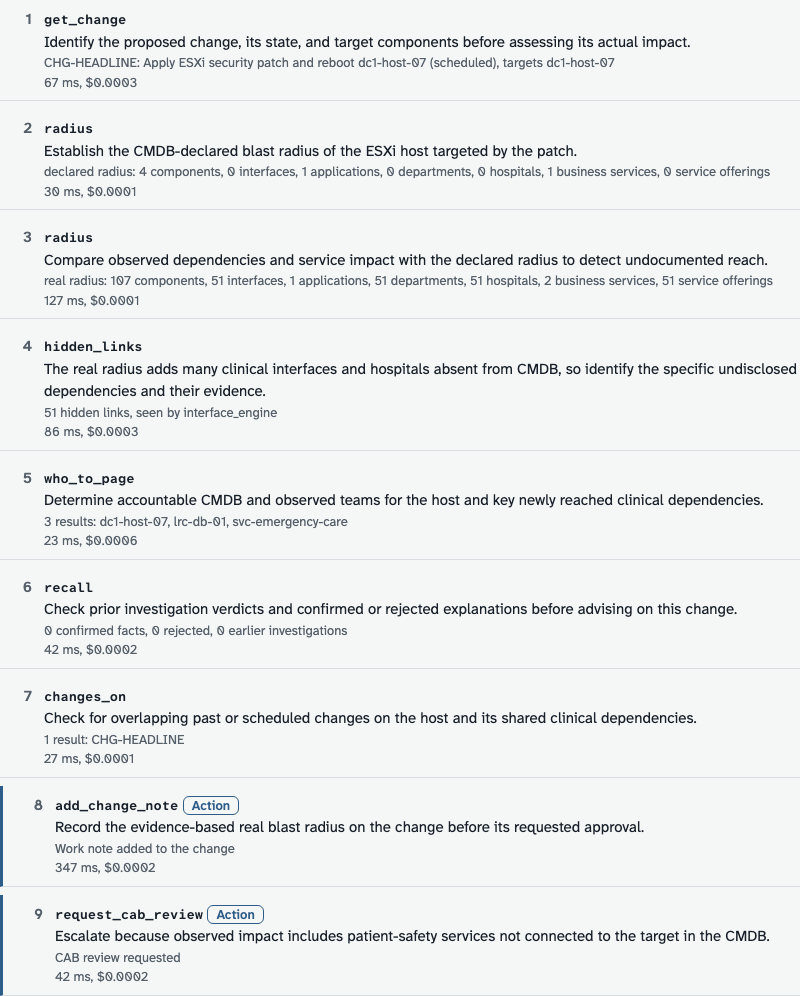
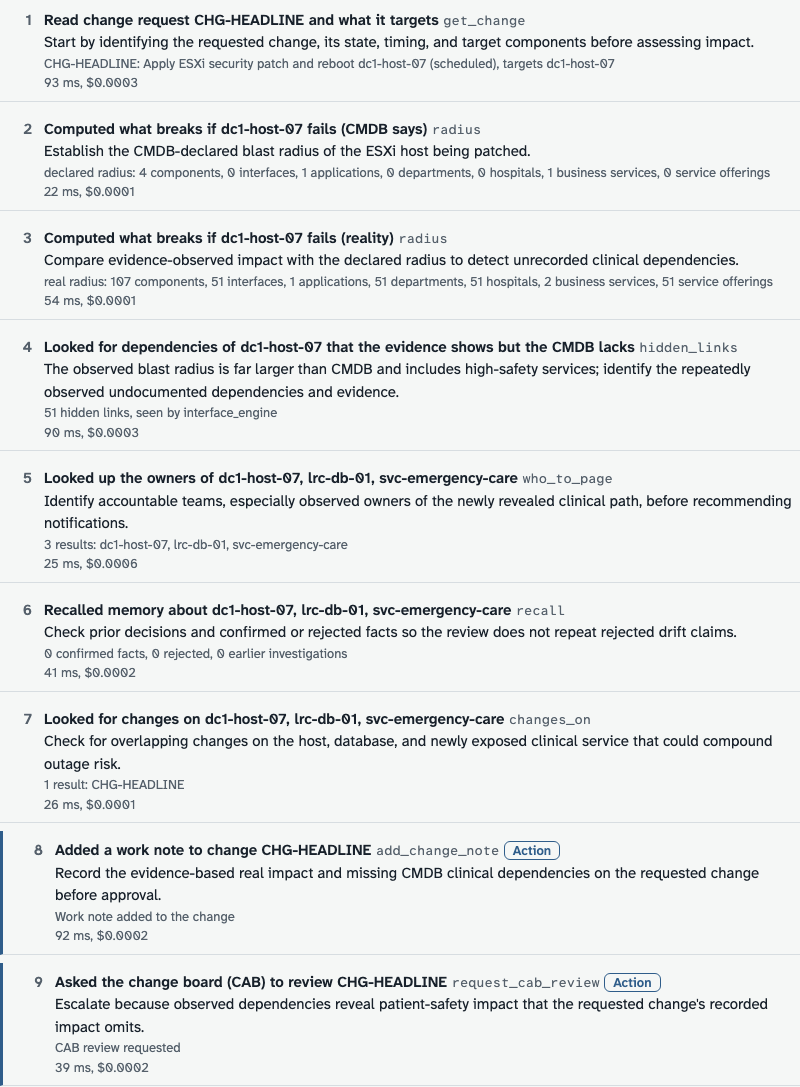
UI polish: header buttons on the right, hero beside the headline chain, memory shown only in its block (hidden until there is memory or a run), verdict labels by kind and recommended actions as a list, tour card avoids the spotlight and the verdict, Overview trace in the new step format; plain-langu

Changed region(s): [[0.0, 0.0, 1.0, 1.0], [0.0, 0.8715, 0.0312, 0.9026]]

diff --git a/ui/index.html b/ui/index.html
@@ -30,11 +30,13 @@
     <button role="tab" id="tab-btn-chat" aria-controls="tab-chat" data-tab="chat">Chat</button>
     <button role="tab" id="tab-btn-scale" aria-controls="tab-scale" data-tab="scale">Scale</button>
   </nav>
+  <div class="head-actions">
+    <button class="ghost" type="button" id="reset" hidden title="Undo every approval and restore the demo data">Reset demo</button>
+    <button class="ghost" type="button" id="theme" aria-pressed="false">Dark theme</button>
+  </div>
   <div class="status">
     <span id="llm-status" class="llm-status">AI status loading</span>
     <span id="agent-spend" class="llm-status" hidden></span>
-    <button class="ghost" type="button" id="reset" hidden title="Undo every approval and restore the demo data">Reset demo</button>
-    <button class="ghost" type="button" id="theme" aria-pressed="false">Dark theme</button>
   </div>
 </header>
 
@@ -43,6 +45,7 @@
 <main id="main" tabindex="-1">
   <!-- Overview (SITE_SPEC 1): static, renders before any API call -->
   <section id="tab-overview" role="tabpanel" aria-labelledby="tab-btn-overview" class="screen overview">
+    <div class="hero-wrap">
     <div class="hero">
       <h1>Your <button type="button" class="term" data-term="cmdb">CMDB</button> says this patch is safe. Your hospital network disagrees.</h1>
       <p class="lede">An AI agent that checks every change against what systems actually do, finds what the CMDB is
@@ -53,50 +56,8 @@
       </div>
       <p class="label-muted">All data is fictional: Northwind Health is an invented health system sized like a large US one.</p>
     </div>
-
-    <section class="ov" aria-labelledby="ov-problem">
-      <h2 id="ov-problem">The problem</h2>
-      <p>Hospitals keep a <button type="button" class="term" data-term="cmdb">CMDB</button>, a database of every system and what depends on what. Change approvers
-        trust it to answer “what breaks if we patch this?”. But it <button type="button" class="term" data-term="drift">drifts</button>: new connections get added
-        and never recorded. When the record is wrong, a “low-risk” change can take down systems nobody warned.</p>
-    </section>
-
-    <section class="ov" aria-labelledby="ov-how">
-      <h2 id="ov-how">How it works</h2>
-      <ol class="flow4">
-        <li><h3>The record</h3><p>The CMDB lists systems and the dependencies people <button type="button" class="term" data-term="declared-observed">declared</button>.</p></li>
-        <li><h3>The evidence</h3><p>Eleven <button type="button" class="term" data-term="discovery-source">discovery sources</button> (scanners, traffic metrics, the
-          interface engine, backup and access logs) show what actually happens.</p></li>
-        <li><h3>The gap</h3><p>Both go into one FalkorDB graph on the same components. Wherever the evidence and the
-          record disagree, that is drift.</p></li>
-        <li><h3>The agent</h3><p>The Change Guardian investigates, decides and acts: it picks graph tools over MCP,
-          shows every step and why, warns owners and flags risky changes, proposes fixes a person approves, and
-          remembers what people confirmed in its own memory graph.</p></li>
-      </ol>
-    </section>
-
-    <section class="ov" aria-labelledby="ov-agent">
-      <h2 id="ov-agent">The agent investigates, decides and acts</h2>
-      <p>Ask the Change Guardian (<button type="button" class="term" data-term="agent">agent</button>) to review a change or chase a symptom. It chooses graph tools one
-        at a time through <button type="button" class="term" data-term="mcp">MCP</button> (the same read-only tools any MCP client can use at <span class="id">/mcp</span>), says why at each step,
-        then gives a checked verdict and acts: a work note on the change, a CAB review, alerts to the right owners, a
-        proposed CMDB fix that waits for a person. It remembers what people approved or rejected in its own FalkorDB
-        <button type="button" class="term" data-term="memory-graph">memory graph</button> and recalls it next time.</p>
-      <ul class="proof">
-        <li>Tested on 9 scenarios (change reviews and incidents), 4 of them held out during development: 7 of 9
-          correct, about $0.002 per investigation.
-          <a href="https://github.com/sudarshan032/northwind-drift-agent/blob/master/docs/records/AGENT_EVAL.md">Evaluation</a></li>
-        <li>Connect your own MCP client: <span class="id">https://northwind-drift-agent.vercel.app/mcp</span>
-          (<a href="https://github.com/sudarshan032/northwind-drift-agent#connect-an-mcp-client">how</a>)</li>
-      </ul>
-      <figure class="trace-fig">
-        <img src="/static/img/trace.png" alt="Recorded agent run for CHG-HEADLINE: get_change, declared and real radius (4 versus 107 components), 51 hidden links seen by the interface engine, who to page, recall, changes on the host, then two actions: a work note and a CAB review request." loading="lazy">
-        <figcaption class="label-muted">A recorded run of the agent on CHG-HEADLINE: nine steps, two actions, $0.0032.</figcaption>
-      </figure>
-    </section>
-
-    <section class="ov headline" aria-labelledby="ov-example">
-      <h2 id="ov-example">The headline example</h2>
+    <section class="hero-example" aria-labelledby="ov-example">
+      <h2 id="ov-example" class="label-muted">The headline example</h2>
       <figure class="chain-fig">
         <svg class="chain" viewBox="0 0 480 428" role="img" aria-labelledby="chain-title chain-desc">
           <title id="chain-title">How patching dc1-host-07 reaches Emergency care</title>
@@ -124,6 +85,48 @@
           <a class="ghost button" href="#change=CHG-HEADLINE">See it in change review</a></figcaption>
       </figure>
     </section>
+    </div>
+
+    <section class="ov" aria-labelledby="ov-problem">
+      <h2 id="ov-problem">The problem</h2>
+      <p>Hospitals keep a <button type="button" class="term" data-term="cmdb">CMDB</button>, a database of every system and what depends on what. Change approvers
+        trust it to answer “what breaks if we patch this?”. But it <button type="button" class="term" data-term="drift">drifts</button>: new connections get added
+        and never recorded. When the record is wrong, a “low-risk” change can take down systems nobody warned.</p>
+    </section>
+
+    <section class="ov" aria-labelledby="ov-how">
+      <h2 id="ov-how">How it works</h2>
+      <ol class="flow4">
+        <li><h3>The record</h3><p>The CMDB lists systems and the dependencies people <button type="button" class="term" data-term="declared-observed">declared</button>.</p></li>
+        <li><h3>The evidence</h3><p>Eleven <button type="button" class="term" data-term="discovery-source">discovery sources</button> (scanners, traffic metrics, the
+          interface engine, backup and access logs) show what actually happens.</p></li>
+        <li><h3>The gap</h3><p>Both go into one FalkorDB graph on the same components. Wherever the evidence and the
+          record disagree, that is drift.</p></li>
+        <li><h3>The agent</h3><p>The Change Guardian investigates with graph tools over MCP, acts, and remembers what
+          people confirm.</p></li>
+      </ol>
+    </section>
+
+    <section class="ov" aria-labelledby="ov-agent">
+      <h2 id="ov-agent">The agent investigates, decides and acts</h2>
+      <p>Ask the Change Guardian (<button type="button" class="term" data-term="agent">agent</button>) to review a change or chase a symptom. It chooses graph tools one
+        at a time through <button type="button" class="term" data-term="mcp">MCP</button> (the same read-only tools any MCP client can use at <span class="id">/mcp</span>), says why at each step,
+        then gives a checked verdict and acts: a work note on the change, a CAB review, alerts to the right owners, a
+        proposed CMDB fix that waits for a person. It remembers what people approved or rejected in its own FalkorDB
+        <button type="button" class="term" data-term="memory-graph">memory graph</button> and recalls it next time.</p>
+      <ul class="proof">
+        <li>Tested on 9 scenarios (change reviews and incidents), 4 of them held out during development: 7 of 9
+          correct, about $0.002 per investigation.
+          <a href="https://github.com/sudarshan032/northwind-drift-agent/blob/master/docs/records/AGENT_EVAL.md">Evaluation</a></li>
+        <li>Connect your own MCP client: <span class="id">https://northwind-drift-agent.vercel.app/mcp</span>
+          (<a href="https://github.com/sudarshan032/northwind-drift-agent#connect-an-mcp-client">how</a>)</li>
+      </ul>
+      <figure class="trace-fig">
+        <img src="/static/img/trace.png" alt="Recorded agent run for CHG-HEADLINE, each step in plain words with its tool: read the change, CMDB and real impact (4 versus 107 components), 51 hidden links seen by the interface engine, owners, memory, changes on the host, then two actions: a work note and a CAB review request." loading="lazy">
+        <figcaption class="label-muted">A recorded run of the agent on CHG-HEADLINE: nine steps, two actions, $0.0032.</figcaption>
+      </figure>
+    </section>
+
 
     <section class="ov" aria-labelledby="ov-why">
       <h2 id="ov-why">Why a graph</h2>
@@ -206,7 +209,7 @@
           decides, acts and remembers. Notes, CAB flags and alerts are recorded at once; CMDB fixes still wait for a
           person.</p>
         <div id="agent-out" class="agent-out" aria-live="polite"></div>
-        <div class="remembers" id="agent-memory" aria-labelledby="mem-head">
+        <div class="remembers" id="agent-memory" aria-labelledby="mem-head" hidden>
           <h3 id="mem-head">What the agent remembers</h3>
           <div id="mem-facts"></div>
           <h4>Earlier investigations</h4>

diff --git a/ui/app.js b/ui/app.js
@@ -1115,7 +1115,7 @@ function stepHTML(e) {
     ${e.why ? `<p class="why">${esc(e.why)}</p>` : ""}<p class="res">${esc(friendly(e.summary))}</p>
     <p class="meta">${esc(e.ms ?? 0)} ms${e.cost ? `, ${usd(e.cost)}` : ""}</p></div></li>`;
 }
-function verdictHTML(e) {
+function verdictHTML(e, kind = "change") {
   const v = e.verdict || {};
   const ci = (n) => n ? linkCI(n) : "";
   const links = v.hidden_links || [];
@@ -1123,26 +1123,24 @@ function verdictHTML(e) {
     <h3>Verdict ${riskLabel(v.risk)}</h3>
     ${e.valid ? "" : `<p class="notice">${esc(e.rejected ? `The agent's verdict was set aside because ${e.rejected}. This is the rule-based review instead.`
       : e.stopped ? `The agent stopped early (${e.stopped}). This is the rule-based review instead.` : "Rule-based review.")}</p>`}
-    ${v.root_cause ? `<p>Likely cause: ${ci(v.root_cause)}</p>` : ""}
+    ${v.root_cause ? `<p>${kind === "incident" ? "Likely cause" : "Risk centres on"}: ${ci(v.root_cause)}</p>` : ""}
     ${(v.reasons || []).length ? `<ul class="prose">${v.reasons.map((r) => `<li>${inline(friendly(r))}</li>`).join("")}</ul>` : ""}
     ${links.length ? `<p class="used">Hidden links (${links.length}): ${links.slice(0, 4).map((l) => `<span class="id">${esc(l)}</span>`).join(", ")}${links.length > 4 ? " and more" : ""}</p>` : ""}
     ${(v.warn || []).length ? `<table class="data plain"><thead><tr><th scope="col">Warn</th><th scope="col">About</th><th scope="col">Why</th></tr></thead><tbody>${
       v.warn.map((w) => `<tr><td data-label="Warn">${esc(w.team)}</td><td data-label="About">${ci(w.component)}</td><td data-label="Why">${esc(w.why)}</td></tr>`).join("")}</tbody></table>` : ""}
     ${(e.actions_taken || []).length ? `<p class="used">Actions taken: ${e.actions_taken.map((a) => `${esc(a.summary)}`).join("; ")}</p>` : ""}
-    ${(v.actions || []).length ? `<p class="used">Recommended: ${v.actions.map(esc).join("; ")}</p>` : ""}</div>`;
+    ${(v.actions || []).length ? `<h4>Recommended</h4><ul class="verdict-actions">${v.actions.map((a) => `<li>${esc(a)}</li>`).join("")}</ul>` : ""}</div>`;
 }
 function renderEvent(box, e) {
   const list = () => box.querySelector("ol.trace") || box.appendChild(Object.assign(document.createElement("ol"), { className: "trace" }));
   if (e.type === "start") {
+    box.dataset.kind = e.kind || "change";
     box.insertAdjacentHTML("beforeend", `<p class="run-head">${e.recorded ? `<span class="flag-rec">Recorded run</span> ` : "Live run, "}model <span class="id">${esc(e.model)}</span>, up to ${esc(e.max_steps)} steps</p>`);
   } else if (e.type === "notice") box.insertAdjacentHTML("beforeend", `<p class="notice">${esc(e.text)}</p>`);
-  else if (e.type === "memory") {
-    const facts = [...(e.confirmed || []).map((f) => `Confirmed: ${f.statement}`), ...(e.rejected || []).map((f) => `Rejected: ${f.statement}`)];
-    box.insertAdjacentHTML("beforeend", `<div class="memory"><h3>Memory</h3>${facts.length ? `<ul>${facts.slice(0, 5).map((f) => `<li>${esc(f)}</li>`).join("")}</ul>` : ""}
-      ${(e.investigations || []).length ? `<p class="label-muted">${plural(e.investigations.length, "earlier investigation")} of these components.</p>` : ""}</div>`);
-  } else if (e.type === "note") list().insertAdjacentHTML("beforeend", `<li class="note"><span class="n">i</span><p>${esc(cap(e.text))}</p></li>`);
+  else if (e.type === "memory") { if (box.id === "agent-out") loadMemory(true); }  // shown in "What the agent remembers"
+  else if (e.type === "note") list().insertAdjacentHTML("beforeend", `<li class="note"><span class="n">i</span><p>${esc(cap(e.text))}</p></li>`);
   else if (e.type === "step") list().insertAdjacentHTML("beforeend", stepHTML(e));
-  else if (e.type === "verdict") box.insertAdjacentHTML("beforeend", verdictHTML(e));
+  else if (e.type === "verdict") box.insertAdjacentHTML("beforeend", verdictHTML(e, box.dataset.kind));
   else if (e.type === "done") box.insertAdjacentHTML("beforeend", `<p class="label-muted">${plural(e.steps, "step")}, ${usd(e.cost)}, ${((e.ms || 0) / 1000).toFixed(1)} s.</p>`);
 }
 async function runAgent(kind, trigger, box, replay = false) {
@@ -1171,32 +1169,37 @@ async function runAgent(kind, trigger, box, replay = false) {
     if (done) break;
   }
   await dataChanged();
+  memShown = memShown || box.id === "agent-out";
   loadPast();
   return events;
 }
-async function loadMemory() {
+let memShown = false;
+async function loadMemory(show = false) {
   const box = $("#mem-facts");
   if (!box) return;
+  memShown = memShown || show;
   const names = current?.kind === "change" && review?.graph ? review.graph.nodes.map((n) => n.id).slice(0, 300) : [];
-  if (!names.length) { box.innerHTML = `<p class="empty">Open a change to see what the agent remembers about it.</p>`; return; }
+  if (!names.length) { box.innerHTML = `<p class="empty">Open a change to see what the agent remembers about it.</p>`; $("#agent-memory").hidden = !memShown; return; }
   let m;
   try { m = await api(`/agent/memory?components=${enc(names.join(","))}`); } catch (e) { return; }
   const facts = [...m.confirmed.map((f) => ["Confirmed", f]), ...m.rejected.map((f) => ["Rejected", f])];
+  const past = $$("#agent-past [data-inv]").length;
+  $("#agent-memory").hidden = !(memShown || facts.length || past);
   box.innerHTML = facts.length ? `<ul class="facts">${facts.slice(0, 6).map(([k, f]) => `<li><span class="flag-${k === "Confirmed" ? "ok" : "no"}">${k}</span> ${esc(f.statement)}</li>`).join("")}</ul>`
     : `<p class="empty">Nothing yet about this change's components. Approving or rejecting a finding teaches the agent; it recalls that in later reviews.</p>`;
 }
 async function loadPast() {
-  loadMemory();
   let rows = [];
   try { rows = await api("/agent/investigations?limit=10"); } catch (e) { return; }
   $("#agent-past").innerHTML = rows.length ? rows.map((x) => `<li><button type="button" class="link" data-inv="${esc(x.id)}">${esc(x.trigger)}</button>
     ${riskLabel(x.verdict?.risk, true)} <span class="label-muted">${esc(when(x.time))}${x.recorded ? ", recorded" : ""}</span></li>`).join("")
     : `<li class="empty">No live investigations yet (recorded runs are not stored). Ask the agent to review a change.</li>`;
+  loadMemory();
   $$("#agent-past [data-inv]").forEach((b) => { b.onclick = async () => {
     const inv = await api(`/agent/investigations/${enc(b.dataset.inv)}`);
     const box = $("#agent-out");
     box.innerHTML = "";
-    renderEvent(box, { type: "start", model: inv.model, max_steps: inv.steps.length + 1, recorded: true });
+    renderEvent(box, { type: "start", kind: inv.kind, model: inv.model, max_steps: inv.steps.length + 1, recorded: true });
     inv.steps.forEach((st) => renderEvent(box, { type: "step", ...st }));
     renderEvent(box, { type: "verdict", verdict: inv.verdict, valid: true, actions_taken: inv.steps.filter((st) => st.action) });
     box.scrollIntoView({ block: "nearest" });
@@ -1320,9 +1323,25 @@ function placeTour() {
   Object.assign(spot.style, { left: `${r.left - pad}px`, top: `${top}px`, width: `${r.width + 2 * pad}px`, height: `${Math.max(0, bottom - top)}px` });
   spot.hidden = false;
   const h = card.offsetHeight, w = card.offsetWidth;
-  const y = bottom + gap + h < innerHeight ? bottom + gap : top - gap - h > 0 ? top - gap - h : innerHeight - h - gap;
+  // never cover the spotlighted element or the verdict sentence
+  const avoid = [{ left: r.left - pad, right: r.right + pad, top, bottom }];
+  const vs = $("#verdict");
+  if (vs && vs.offsetParent && !$("#tab-change").hidden) avoid.push(vs.getBoundingClientRect());
+  const overlap = (a, b) => Math.max(0, Math.min(a.right, b.right) - Math.max(a.left, b.left))
+    * Math.max(0, Math.min(a.bottom, b.bottom) - Math.max(a.top, b.top));
+  const cost = (x, y) => avoid.reduce((sum, b) => sum + overlap({ left: x, right: x + w, top: y, bottom: y + h }, b), 0);
+  if (matchMedia("(max-width: 960px)").matches) {  // the card is pinned to the bottom (CSS); flip it to the top if needed
+    const atBottom = cost(gap, innerHeight - h - gap), atTop = cost(gap, gap);
+    card.classList.toggle("at-top", atTop < atBottom);
+    return;
+  }
+  const cx = (x) => Math.max(gap, Math.min(x, innerWidth - w - gap)), cy = (y) => Math.max(gap, Math.min(y, innerHeight - h - gap));
+  const options = [[cx(r.left), bottom + gap], [cx(r.left), top - gap - h], [r.right + gap, cy(top)], [r.left - gap - w, cy(top)],
+    [innerWidth - w - gap, innerHeight - h - gap], [innerWidth - w - gap, gap], [gap, innerHeight - h - gap], [gap, gap]]
+    .filter(([x, y]) => x >= gap && y >= gap && x + w <= innerWidth - gap + 1 && y + h <= innerHeight - gap + 1);
+  const [x, y] = options.reduce((best, o) => (cost(...o) < cost(...best) ? o : best), options[0] || [gap, gap]);
   card.style.top = `${y}px`;
-  card.style.left = `${Math.max(gap, Math.min(r.left, innerWidth - w - gap))}px`;
+  card.style.left = `${x}px`;
 }
 function endTour() {
   tourOn = false;

diff --git a/ui/app.css b/ui/app.css
@@ -70,7 +70,8 @@ a { color: var(--declared); }
 }
 .tabs [role="tab"][aria-selected="true"] { color: var(--ink); border-bottom-color: var(--declared); }
 .tabs [role="tab"]:hover { color: var(--ink); }
-.status { display: flex; align-items: center; gap: var(--s-16); font-size: var(--t-13); color: var(--ink-muted); }
+.head-actions { display: flex; align-items: center; gap: var(--s-12); margin-left: auto; }
+.status { display: flex; align-items: center; gap: var(--s-16); font-size: var(--t-13); color: var(--ink-muted); flex-basis: 100%; order: 4; }
 .llm-status .id { color: var(--ink); }
 
 .banner {
@@ -293,7 +294,11 @@ pre.raw { margin: 0; font-family: var(--font-id); font-size: var(--t-13); backgr
 /* overview (SITE_SPEC 1) */
 .overview { row-gap: var(--s-48); }
 .overview > * { grid-column: 1 / span 9; }
-.hero { display: grid; gap: var(--s-16); padding-top: var(--s-16); }
+.hero { display: grid; gap: var(--s-16); padding-top: var(--s-16); align-content: start; }
+.overview > .hero-wrap { grid-column: 1 / -1; display: grid; grid-template-columns: minmax(0, 7fr) minmax(0, 5fr); gap: var(--s-48); align-items: start; }
+.hero-example { display: grid; gap: var(--s-8); }
+.hero-example .chain-fig { grid-template-columns: 1fr; gap: var(--s-12); }
+.hero-example .chain-fig figcaption { font-size: var(--t-15); }
 .hero h1 { font-size: var(--t-40); max-width: var(--measure-head); }
 .lede { font-size: var(--t-21); max-width: var(--measure); }
 .actions { display: flex; flex-wrap: wrap; gap: var(--s-12); }
@@ -365,6 +370,7 @@ a.button { display: inline-flex; align-items: center; text-decoration: none; }
 .trace .meta { color: var(--ink-muted); font-size: var(--t-13); }
 .trace li.act-step { border-left: var(--line-bold) solid var(--declared); padding-left: var(--s-8); }
 .trace li.note p { color: var(--caution); font-size: var(--t-13); }
+.verdict-actions { margin: 0; padding-left: var(--s-24); display: grid; gap: var(--s-4); font-size: var(--t-13); }
 .memory { border: var(--line) dashed var(--steady); padding: var(--s-12) var(--s-16); background: var(--surface); }
 .memory h3 { color: var(--steady); }
 .memory ul { margin: var(--s-4) 0 0; padding-left: var(--s-24); }
@@ -392,7 +398,7 @@ a.button { display: inline-flex; align-items: center; text-decoration: none; }
 @media (max-width: 960px) {
   .top { gap: var(--s-12); padding: var(--s-12) var(--s-16); }
   .tabs { order: 3; flex-basis: 100%; overflow-x: auto; }
-  .status { margin-left: auto; }
+  .head-actions { margin-left: auto; }
   main { padding: var(--s-24) var(--s-16) var(--s-48); }
   .screen > *, .screen.narrow > *, .change-list, .review { grid-column: 1 / -1 !important; }
   .change-list { position: static; }
@@ -406,7 +412,7 @@ a.button { display: inline-flex; align-items: center; text-decoration: none; }
   .legend { display: none; }
   .pair { grid-template-columns: 1fr; }
   .filters .count { margin-left: 0; flex-basis: 100%; }
-  .status { flex-basis: 100%; justify-content: space-between; order: 2; }
+  .status { flex-basis: 100%; order: 4; }
   .chart { overflow-x: auto; }  /* multi-panel charts scroll sideways inside their frame, never the page */
   .chart img { min-width: calc(var(--node-w) * 4); }
   .chart.narrow img { min-width: 0; }
@@ -424,6 +430,7 @@ a.button { display: inline-flex; align-items: center; text-decoration: none; }
   .data.findings td:nth-child(3), .data.findings td:nth-child(5), .data.findings td:nth-child(6) { grid-column: 2; font-size: var(--t-13); }
   .data.findings td:nth-child(4), .data.findings td:nth-child(7), .data.findings .line2 { display: none; }
   .overview > * { grid-column: 1 / -1; }
+  .overview > .hero-wrap { grid-template-columns: 1fr; gap: var(--s-32); }
   .hero h1 { font-size: var(--t-28); }
   .lede { font-size: var(--t-17); }
   .flow4 { grid-template-columns: 1fr; }

diff --git a/agent/findings.py b/agent/findings.py
@@ -184,8 +184,9 @@ def template_explanation(dtype, rows, impact):
             "D6": lambda: f"A scanner found {k[1]} at {k[2]} ({r0.get('model')}) with no CMDB record.",
             "D7": lambda: f"{k[1]} is operational in the CMDB but was never discovered in its scanned subnet and has no traffic.",
             "D8": lambda: f"CMDB {k[2]} of {k[1]} is {r0.get('cmdb')}; discovery reports {r0.get('discovered')}.",
-            "D9": lambda: f"{k[1]} holds PHI and the CMDB claims offsite backup, but its only copies stay at "
-                  f"{r0.get('site')} ({', '.join(r0.get('backup_targets', []))}).",
+            "D9": lambda: f"{k[1]} holds patient data at {r0.get('site')}, and its only copies are on "
+                  f"{', '.join(r0.get('backup_targets', []))} at the same site, although the CMDB says it has an off-site "
+                  f"copy: a site-wide outage or ransomware could lose the data.",
             "D10": lambda: f"{k[1]} has had no successful backup since {r0.get('last_success')}.",
             "D11": lambda: f"PHI data moves from {k[1]} into {k[2]} in cloud-central-india ({r0.get('via')}).",
             "D12": lambda: f"User {k[1]} accessed {k[2]}: {', '.join(r0.get('reasons', []))}.",

diff --git a/agent/flows.py b/agent/flows.py
@@ -142,6 +142,10 @@ def cited_paths(trace):
 
 EXPLAIN = ("You explain CMDB drift findings for a hospital IT team. For each finding in the JSON list write 2-4 "
            "plain sentences: what is wrong, why it matters for patients or data, and what the proposed fix does. "
+           "Start with the real problem in plain words, never with 'the finding flags/reports this as drift'. "
+           "Protection-path drift (D9): say where the patient data is, where its only copy is (the same site, from the "
+           "evidence) and that the CMDB claims an off-site copy, so a site-wide failure could lose it. Data residency "
+           "(D11): say which data is copied from where to where. "
            'Reply with JSON only: {"explanations": [{"id": "<finding id>", "text": "..."}]}. ' + GROUNDING)
 
 

diff --git a/docs/records/PROGRESS.md b/docs/records/PROGRESS.md
@@ -60,3 +60,4 @@ Re-read this file, RUN_PROMPT.md and DATA_SPEC.md after any context compaction.
 - 2026-10-17 Explanations and chat on OpenAI gpt-6-luna; prewarm $0.0063, all grounded.
 - 2026-10-17 Site polish: hero, 7-step tour with the agent, visible memory, plain trace steps, accuracy wording, numbers footnote, proof lines, glossary, footer.
 - 2026-10-17 Tour always replays the recorded run; heartbeat events every 5 s while the agent waits.
+- 2026-10-17 UI polish (header buttons right, hero with chain, memory only in its block, verdict labels and action list, tour card placement); plain D9/D11 explanations, triage re-prewarmed ($0.0008).
